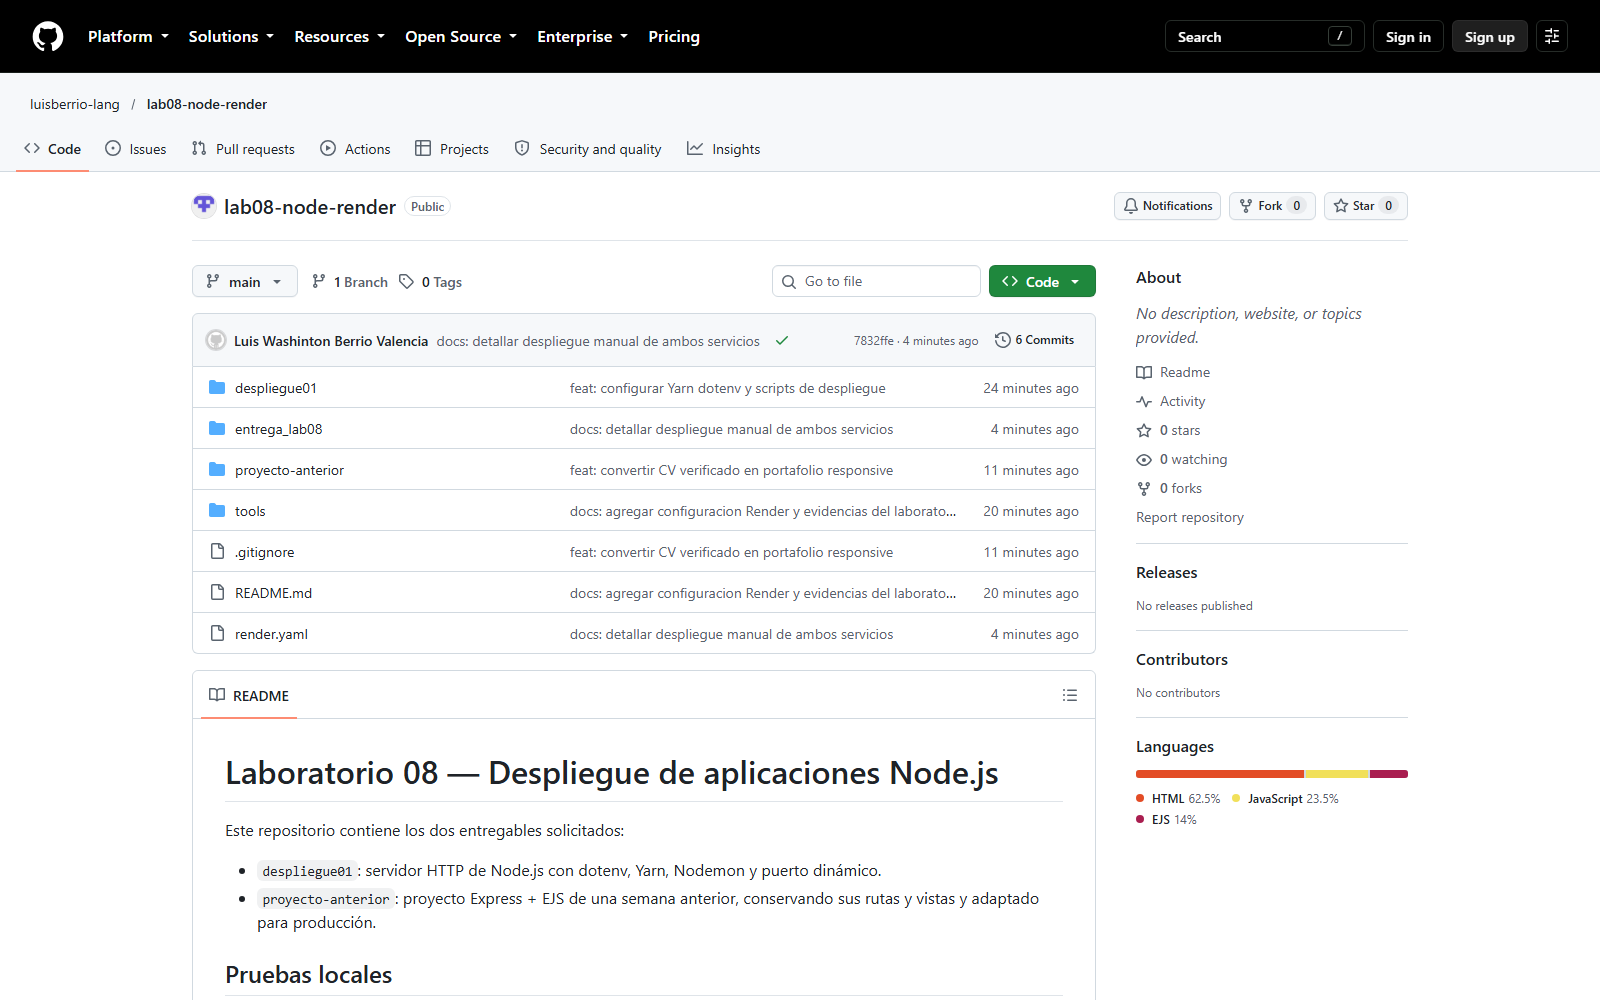
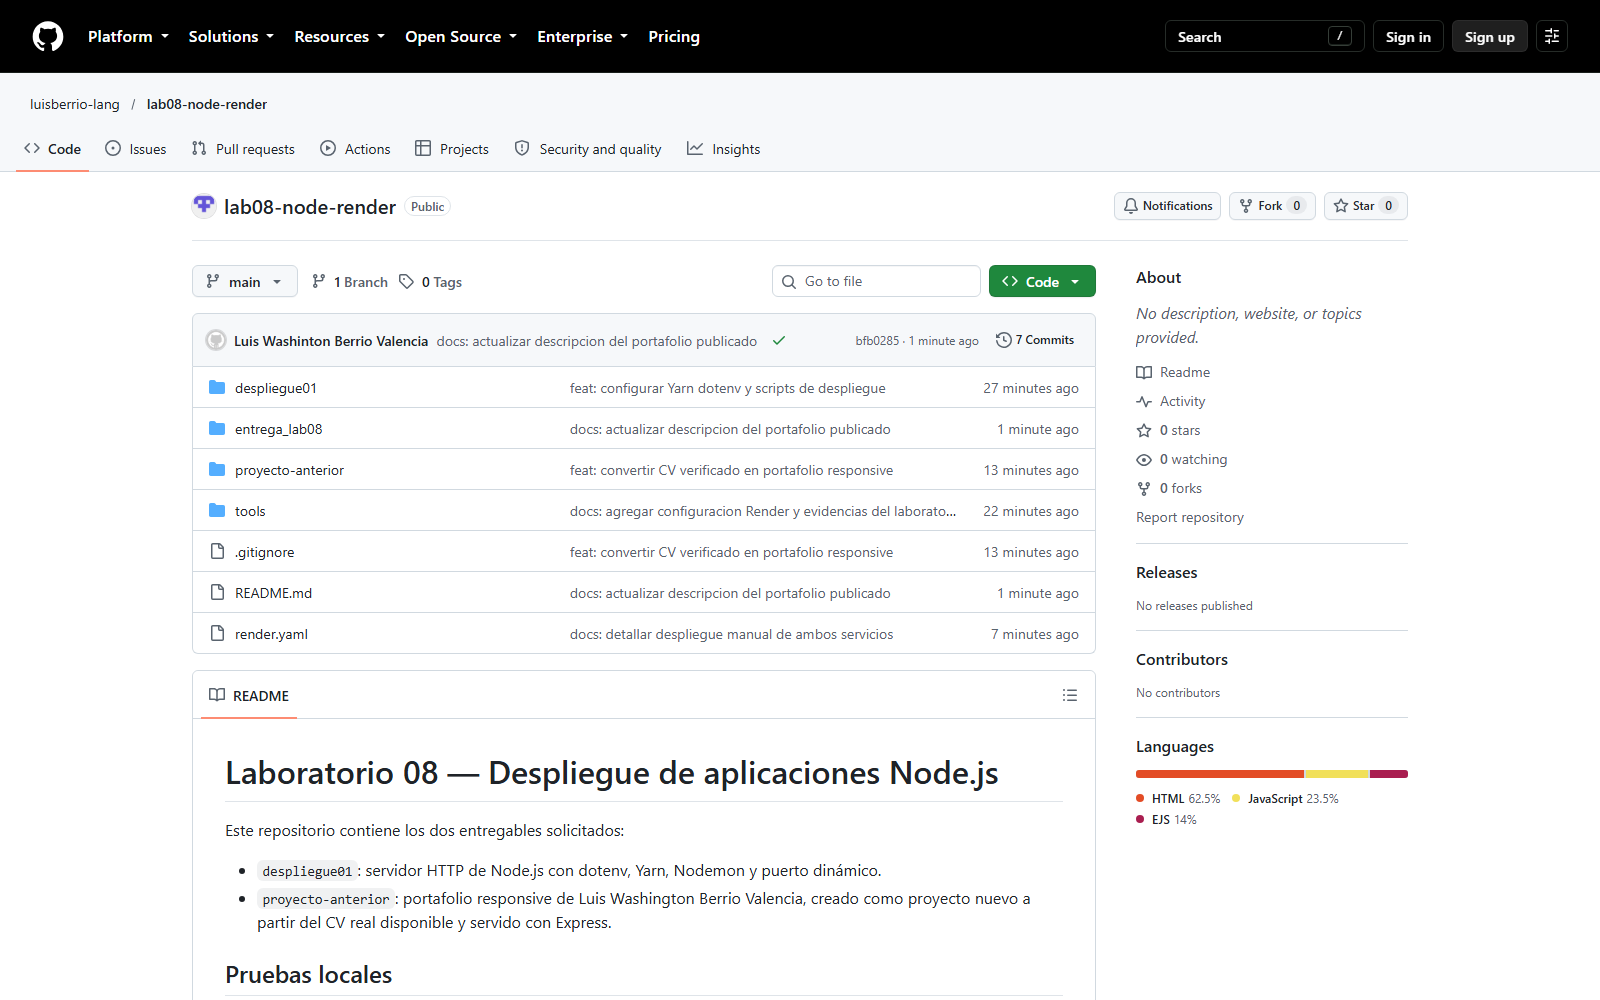
docs: registrar publicacion verificada en GitHub

diff --git a/entrega_lab08/INFORME_LAB08.md b/entrega_lab08/INFORME_LAB08.md
@@ -24,8 +24,9 @@ Preparar, versionar y desplegar una aplicación Node.js, y publicar además un p
 - `proyecto-anterior`: portafolio nuevo con HTTP 200 en `/`, `/health`, `/styles.css`, `/script.js` y rutas internas; validación sintáctica aprobada.
 - Responsive: revisión visual real en 1440×900 y 500×900; navegación, textos, botones y tarjeta principal se muestran sin recortes.
 - Git: rama `main` con tres commits de implementación antes de la documentación final.
+- GitHub: repositorio público verificado en `https://github.com/luisberrio-lang/lab08-node-render`, remoto denominado `github` y rama `main` publicada correctamente.
 - Evidencia local: capturas 01, 02 y 03 generadas a 1600×900 y revisadas visualmente.
-- Publicación: pendiente de acceso autenticado al navegador para GitHub y Render. Las URL y capturas 04–06 se incorporarán únicamente después de verificarlas en línea.
+- Render: pendiente de creación manual de los dos Web Services en la sesión autenticada del usuario. Las URL y capturas 05–06 se incorporarán únicamente después de verificarlas en línea.
 
 ## Observaciones
 

diff --git a/entrega_lab08/DESCRIPCIONES_CAPTURAS.md b/entrega_lab08/DESCRIPCIONES_CAPTURAS.md
@@ -14,7 +14,7 @@ La aplicación `despliegue01` responde correctamente en `localhost:3000`. A la d
 
 ## 4. Repositorio en GitHub
 
-El repositorio público muestra en la rama `main` los proyectos `despliegue01` y `proyecto-anterior`, el archivo `render.yaml` y la documentación del laboratorio.
+El repositorio público `luisberrio-lang/lab08-node-render` muestra en la rama `main` los proyectos `despliegue01` y `proyecto-anterior`, el archivo `render.yaml`, el README actualizado y el historial de commits.
 
 ## 5. Despliegue en Render
 
